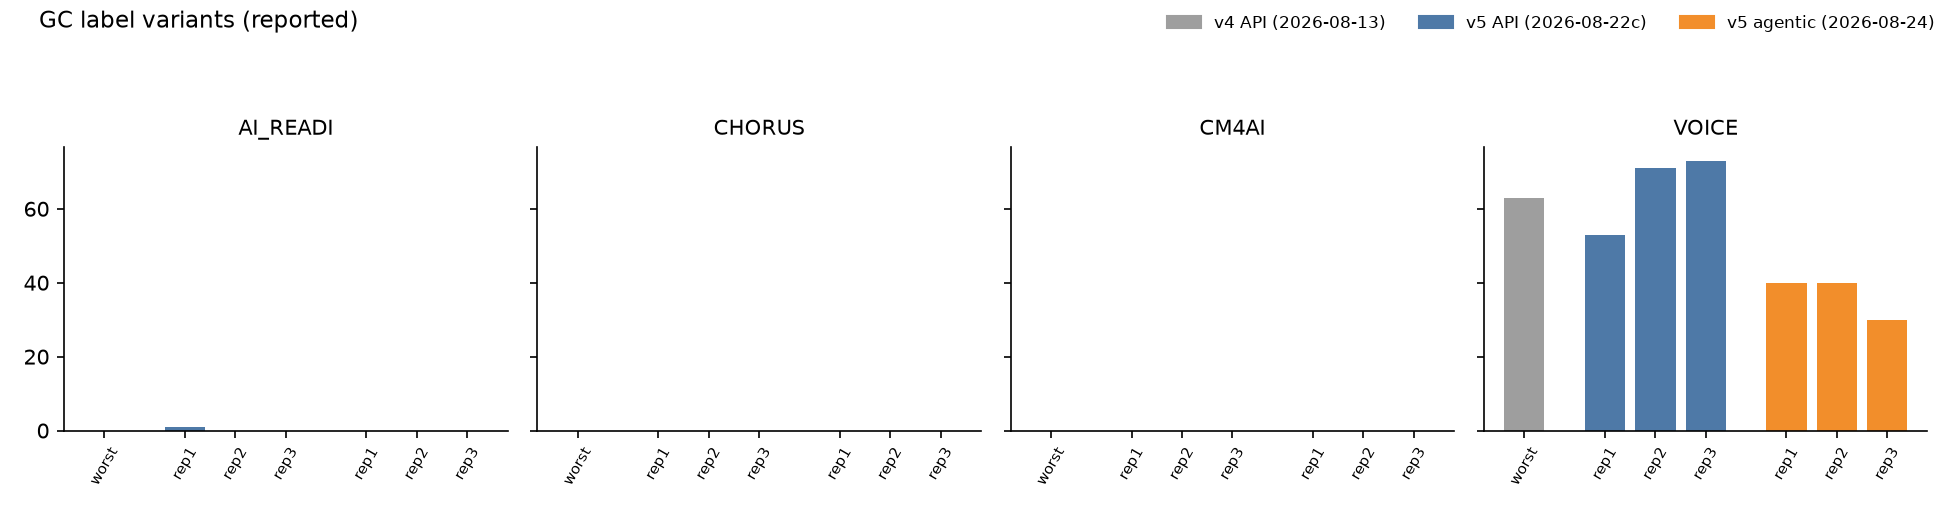
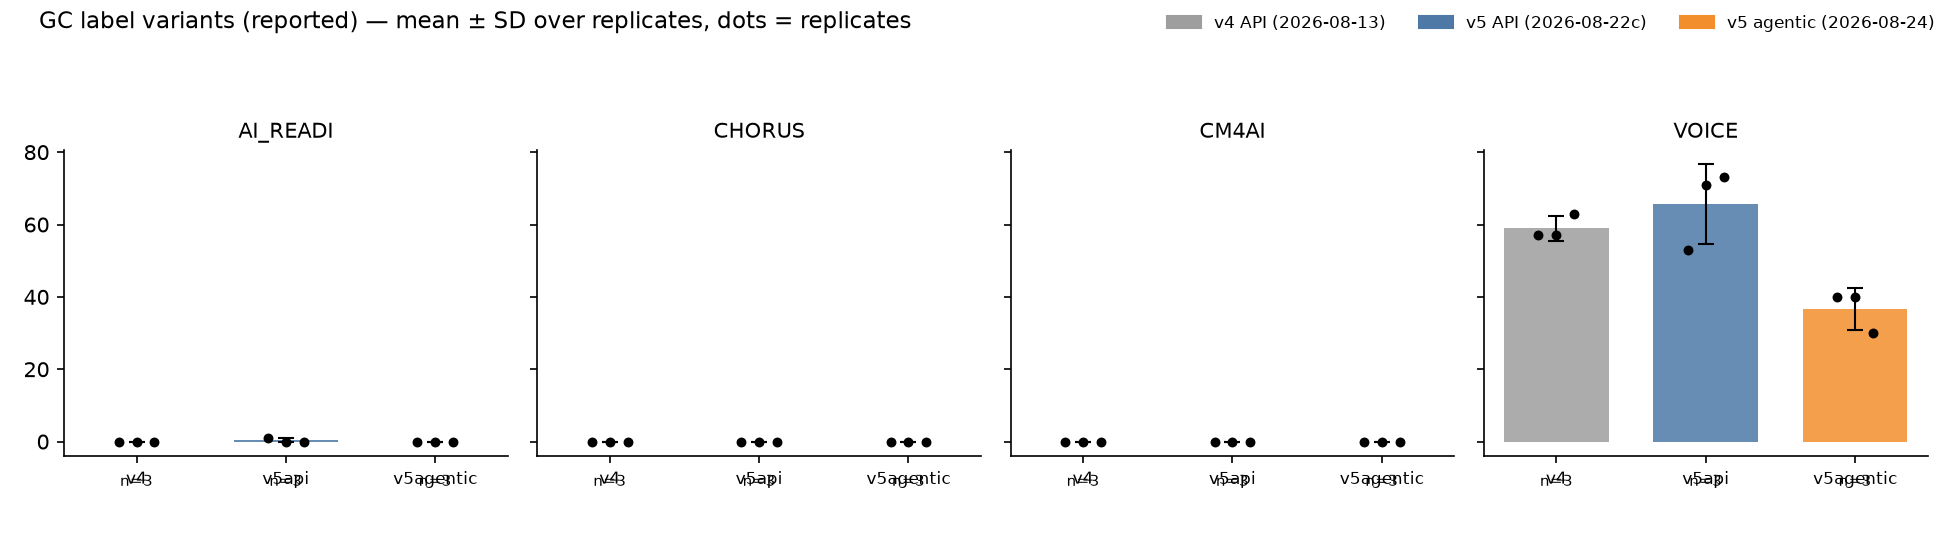
Cross-arm comparison: mean ± SD over replicates in the table and figures
Every arm has three replicates per project, so each deterministic cell is
now mean ± sample SD (ddof=1) with the replicate values in brackets; the
baseline arm keeps its per-project worst beside them, because that is the
value the canary gate holds runs against. Figures draw one bar per arm at
the replicate mean with an SD error bar, the replicates as dots, and n
under each bar. An SD over three replicates is labelled as a spread, not a
confidence interval.

Rubric scores get no SD: only each arm's canonical was scored (n = 1 per
arm and project), and the table and figure say so rather than invent one.
Scoring all replicates (24 more evaluations per rubric) is what an SD there
would take.

diff --git a/scripts/arm_comparison.py b/scripts/arm_comparison.py
@@ -192,6 +192,33 @@ def fmt(m: dict[str, Any], metric: str) -> str:
     return str(v)
 
 
+def stats(reps: list[dict[str, Any]], metric: str) -> tuple[float, float, int] | None:
+    """Mean and sample SD (ddof=1) over replicates; None when fewer than 1.
+    n is always reported beside the figure: three replicates is a small
+    sample, and an SD on n=3 is a spread, not a confidence interval."""
+    import statistics
+    vals = [r[metric] for r in reps if r.get(metric) is not None]
+    if not vals:
+        return None
+    mean = statistics.fmean(vals)
+    sd = statistics.stdev(vals) if len(vals) > 1 else 0.0
+    return mean, sd, len(vals)
+
+
+def cell(reps: list[dict[str, Any]], metric: str, role: str) -> str:
+    """mean ± SD with the replicates in brackets; the baseline arm adds its
+    per-project worst, which is what the canary gate holds runs against."""
+    st = stats(reps, metric)
+    if st is None:
+        return "–"
+    mean, sd, n = st
+    raw = ",".join(fmt(r, metric) for r in reps)
+    body = f"{mean:.1f} ± {sd:.1f} [{raw}]"
+    if role == "worst":
+        body += f" worst {worst(reps, metric)}"
+    return body
+
+
 def worst(reps: list[dict[str, Any]], metric: str) -> str:
     """Per-project collapse for the baseline column: the worst value where
     the metric has a direction, the max (labelled as such in the header) for
@@ -229,18 +256,20 @@ def write_markdown(data, scores) -> None:
                                    + (" (shown as per-project worst; max for reported-only metrics)" if role == "worst" else "")
                                    for _k, d, pfx, rt, role in ARMS), ""]
 
-    lines += ["## Deterministic metrics — three replicates per cell", "",
+    lines += ["## Deterministic metrics — mean ± SD over replicates", "",
               "| metric | project | " + " | ".join(d for _k, d, *_ in ARMS) + " |",
               "|---|---|" + "|".join("---" for _ in ARMS) + "|"]
     for mk, (disp, _src, _hiw, _cav) in METRICS.items():
         for p in PROJECTS:
             cells = []
             for key, _d, _pfx, _rt, role in ARMS:
-                reps = data[key][p]
-                cells.append(worst(reps, mk) if role == "worst"
-                             else ",".join(fmt(r, mk) for r in reps) or "–")
+                cells.append(cell(data[key][p], mk, role))
             lines.append(f"| {disp} | {p} | " + " | ".join(cells) + " |")
-    lines += ["", "ᵘ = unmeasured: the report-claims checker parsed zero claims (#684).", ""]
+    lines += ["", "Cells are mean ± sample SD over the replicates (n = 3 unless a run is "
+              "missing), with the replicate values in brackets; the baseline arm adds "
+              "its per-project worst, the value the canary gate holds runs against. "
+              "An SD over three replicates is a spread, not a confidence interval. "
+              "ᵘ = unmeasured: the report-claims checker parsed zero claims (#684).", ""]
 
     lines += ["## Per-metric caveats (attached, not footnoted elsewhere)", ""]
     for mk, (disp, src, _hiw, cav) in METRICS.items():
@@ -249,7 +278,7 @@ def write_markdown(data, scores) -> None:
     lines.append("")
 
     for rubric, rscores in scores.items():
-        lines += [f"## {rubric.capitalize()}-semantic scores (canonical / would-be canonical records only)", "",
+        lines += [f"## {rubric.capitalize()}-semantic scores (canonical / would-be canonical records only; n = 1 per arm and project, so no SD)", "",
                   "| project | " + " | ".join(d for _k, d, *_ in ARMS) + " |",
                   "|---|" + "|".join("---" for _ in ARMS) + "|"]
         for p in PROJECTS:
@@ -279,35 +308,32 @@ def write_figures(data, scores) -> None:
     OUT_FIG.mkdir(parents=True, exist_ok=True)
     colors = {"v4": "#9e9e9e", "v5api": "#4e79a7", "v5agentic": "#f28e2b"}
 
-    # One figure per metric: 4 project panels, bars per arm (worst) or per rep.
+    # One figure per metric: 4 project panels, one bar per arm = replicate mean,
+    # error bar = sample SD (n printed under the bar). Replicates are dots.
     for mk, (disp, _src, _hiw, cav) in METRICS.items():
-        fig, axes = plt.subplots(1, len(PROJECTS), figsize=(13, 3.4), sharey=True)
+        fig, axes = plt.subplots(1, len(PROJECTS), figsize=(13, 3.6), sharey=True)
         for ax, p in zip(axes, PROJECTS):
-            xs, hs, cs, labels = [], [], [], []
-            x = 0
-            for key, d, _pfx, _rt, role in ARMS:
+            for i, (key, d, _pfx, _rt, role) in enumerate(ARMS):
                 reps = data[key][p]
-                if role == "worst":
-                    vals = [r[mk] for r in reps if r.get(mk) is not None]
-                    if vals:
-                        xs.append(x); hs.append(max(vals)); cs.append(colors[key]); labels.append("worst")
-                        x += 1
-                else:
-                    for r in reps:
-                        if r.get(mk) is None:
-                            continue
-                        xs.append(x); hs.append(r[mk]); cs.append(colors[key])
-                        labels.append(r["label"].rsplit("_", 1)[-1] + ("ᵘ" if mk == "report" and r[mk] == 0 and not r.get("claims_checked") else ""))
-                        x += 1
-                x += 0.6
-            ax.bar(xs, hs, color=cs, width=0.8)
-            ax.set_xticks(xs); ax.set_xticklabels(labels, fontsize=7, rotation=60)
+                st = stats(reps, mk)
+                if st is None:
+                    continue
+                mean, sd, n = st
+                ax.bar(i, mean, color=colors[key], width=0.7, alpha=0.85)
+                ax.errorbar(i, mean, yerr=sd, fmt="none", ecolor="black", capsize=4, lw=1)
+                vals = [r[mk] for r in reps if r.get(mk) is not None]
+                ax.scatter([i + (j - 1) * 0.12 for j in range(len(vals))], vals,
+                           s=14, color="black", zorder=3)
+                ax.text(i, -0.06, f"n={n}", ha="center", va="top", fontsize=7,
+                        transform=ax.get_xaxis_transform())
+            ax.set_xticks(range(len(ARMS)))
+            ax.set_xticklabels([k for k, *_ in ARMS], fontsize=8)
             ax.set_title(p, fontsize=10)
             ax.spines[["top", "right"]].set_visible(False)
         handles = [plt.Rectangle((0, 0), 1, 1, color=colors[k]) for k, *_ in ARMS]
         fig.legend(handles, [d for _k, d, *_ in ARMS], loc="upper right", fontsize=8, ncol=3, frameon=False)
-        fig.suptitle(disp, x=0.02, ha="left", fontsize=11)
-        fig.tight_layout(rect=(0, 0, 1, 0.9))
+        fig.suptitle(f"{disp} — mean ± SD over replicates, dots = replicates", x=0.02, ha="left", fontsize=11)
+        fig.tight_layout(rect=(0, 0.04, 1, 0.9))
         out = OUT_FIG / f"arm_comparison_{mk}.png"
         fig.savefig(out, dpi=150); plt.close(fig)
         print(f"wrote {out.relative_to(ROOT)}")
@@ -348,7 +374,7 @@ def _rubric_figure(rubric, scores, colors) -> None:
     ax.set_ylabel(f"{rubric}-semantic points (axis: unadjusted max {RUBRIC_MAX[rubric]})")
     ax.spines[["top", "right"]].set_visible(False)
     ax.legend(frameon=False, fontsize=8, loc="upper center", bbox_to_anchor=(0.5, -0.12), ncol=len(arm_keys))
-    ax.set_title(f"{rubric.capitalize()}-semantic, canonical records (same evaluator model)"
+    ax.set_title(f"{rubric.capitalize()}-semantic, canonical records (same evaluator; n = 1 per bar, no SD)"
                  + (f" — no evaluations exist for: {', '.join(absent)}" if absent else ""),
                  fontsize=9, loc="left")
     fig.tight_layout()

diff --git a/notes/arm_comparison.md b/notes/arm_comparison.md
@@ -11,44 +11,44 @@ Generated by `scripts/arm_comparison.py` from the provenance records under `data
 
 Arms: **v4 API (2026-08-13)** — `2026-08-13_claude-opus-5-api-generic-v4_rep{1,2,3}`, Claude API via CBORG (shown as per-project worst; max for reported-only metrics); **v5 API (2026-08-22c)** — `2026-08-22c_claude-opus-5-api-generic-v5_rep{1,2,3}`, Claude API via CBORG; **v5 agentic (2026-08-24)** — `2026-08-24_claude-opus-5-claudecode-generic-v5_rep{1,2,3}`, Claude Code
 
-## Deterministic metrics — three replicates per cell
+## Deterministic metrics — mean ± SD over replicates
 
 | metric | project | v4 API (2026-08-13) | v5 API (2026-08-22c) | v5 agentic (2026-08-24) |
 |---|---|---|---|---|
-| ungrounded identifiers | AI_READI | 0 | 0,0,0 | 0,0,0 |
-| ungrounded identifiers | CHORUS | 0 | 0,0,0 | 0,0,0 |
-| ungrounded identifiers | CM4AI | 10 | 0,0,0 | 0,0,0 |
-| ungrounded identifiers | VOICE | 19 | 0,0,0 | 0,0,0 |
-| organisational fragments | AI_READI | 0 | 0,0,0 | 0,0,0 |
-| organisational fragments | CHORUS | 0 | 0,0,0 | 0,0,0 |
-| organisational fragments | CM4AI | 0 | 0,0,0 | 0,0,0 |
-| organisational fragments | VOICE | 7 | 0,0,0 | 0,0,0 |
-| undeclared prefixes | AI_READI | 6 | 0,0,0 | 0,0,0 |
-| undeclared prefixes | CHORUS | 228 | 0,0,0 | 0,0,0 |
-| undeclared prefixes | CM4AI | 86 | 0,0,0 | 0,0,0 |
-| undeclared prefixes | VOICE | 0 | 0,0,0 | 0,0,0 |
-| British spellings | AI_READI | 183 | 20,37,0 | 4,0,0 |
-| British spellings | CHORUS | 20 | 0,0,0 | 0,0,0 |
-| British spellings | CM4AI | 53 | 0,0,0 | 0,4,0 |
-| British spellings | VOICE | 59 | 2,0,6 | 3,4,0 |
-| pair errors | AI_READI | 10 | 2,18,6 | 0,0,0 |
-| pair errors | CHORUS | 6 | 1,0,2 | 0,0,0 |
-| pair errors | CM4AI | 9 | 4,5,9 | 0,0,0 |
-| pair errors | VOICE | 9 | 7,5,5 | 0,0,0 |
-| report findings | AI_READI | 2 | 0ᵘ,1,0ᵘ | 0ᵘ,0ᵘ,0ᵘ |
-| report findings | CHORUS | 0ᵘ | 0ᵘ,0ᵘ,0ᵘ | 0ᵘ,0ᵘ,0 |
-| report findings | CM4AI | 4 | 2,0ᵘ,0ᵘ | 0ᵘ,0ᵘ,0ᵘ |
-| report findings | VOICE | 2 | 0ᵘ,1,1 | 0ᵘ,0ᵘ,0ᵘ |
-| minted fragments (reported) | AI_READI | 17 | 0,13,14 | 16,3,12 |
-| minted fragments (reported) | CHORUS | 0 | 0,0,0 | 0,0,0 |
-| minted fragments (reported) | CM4AI | 12 | 15,10,16 | 42,55,51 |
-| minted fragments (reported) | VOICE | 14 | 0,0,8 | 3,14,130 |
-| GC label variants (reported) | AI_READI | 0 | 1,0,0 | 0,0,0 |
-| GC label variants (reported) | CHORUS | 0 | 0,0,0 | 0,0,0 |
-| GC label variants (reported) | CM4AI | 0 | 0,0,0 | 0,0,0 |
-| GC label variants (reported) | VOICE | 63 | 53,71,73 | 40,40,30 |
+| ungrounded identifiers | AI_READI | 0.0 ± 0.0 [0,0,0] worst 0 | 0.0 ± 0.0 [0,0,0] | 0.0 ± 0.0 [0,0,0] |
+| ungrounded identifiers | CHORUS | 0.0 ± 0.0 [0,0,0] worst 0 | 0.0 ± 0.0 [0,0,0] | 0.0 ± 0.0 [0,0,0] |
+| ungrounded identifiers | CM4AI | 3.3 ± 5.8 [0,0,10] worst 10 | 0.0 ± 0.0 [0,0,0] | 0.0 ± 0.0 [0,0,0] |
+| ungrounded identifiers | VOICE | 6.3 ± 11.0 [19,0,0] worst 19 | 0.0 ± 0.0 [0,0,0] | 0.0 ± 0.0 [0,0,0] |
+| organisational fragments | AI_READI | 0.0 ± 0.0 [0,0,0] worst 0 | 0.0 ± 0.0 [0,0,0] | 0.0 ± 0.0 [0,0,0] |
+| organisational fragments | CHORUS | 0.0 ± 0.0 [0,0,0] worst 0 | 0.0 ± 0.0 [0,0,0] | 0.0 ± 0.0 [0,0,0] |
+| organisational fragments | CM4AI | 0.0 ± 0.0 [0,0,0] worst 0 | 0.0 ± 0.0 [0,0,0] | 0.0 ± 0.0 [0,0,0] |
+| organisational fragments | VOICE | 2.3 ± 4.0 [7,0,0] worst 7 | 0.0 ± 0.0 [0,0,0] | 0.0 ± 0.0 [0,0,0] |
+| undeclared prefixes | AI_READI | 2.0 ± 3.5 [0,6,0] worst 6 | 0.0 ± 0.0 [0,0,0] | 0.0 ± 0.0 [0,0,0] |
+| undeclared prefixes | CHORUS | 76.0 ± 131.6 [228,0,0] worst 228 | 0.0 ± 0.0 [0,0,0] | 0.0 ± 0.0 [0,0,0] |
+| undeclared prefixes | CM4AI | 42.3 ± 43.0 [0,86,41] worst 86 | 0.0 ± 0.0 [0,0,0] | 0.0 ± 0.0 [0,0,0] |
+| undeclared prefixes | VOICE | 0.0 ± 0.0 [0,0,0] worst 0 | 0.0 ± 0.0 [0,0,0] | 0.0 ± 0.0 [0,0,0] |
+| British spellings | AI_READI | 136.7 ± 41.5 [183,103,124] worst 183 | 19.0 ± 18.5 [20,37,0] | 1.3 ± 2.3 [4,0,0] |
+| British spellings | CHORUS | 16.7 ± 5.8 [20,20,10] worst 20 | 0.0 ± 0.0 [0,0,0] | 0.0 ± 0.0 [0,0,0] |
+| British spellings | CM4AI | 19.7 ± 28.9 [53,4,2] worst 53 | 0.0 ± 0.0 [0,0,0] | 1.3 ± 2.3 [0,4,0] |
+| British spellings | VOICE | 47.7 ± 14.0 [32,59,52] worst 59 | 2.7 ± 3.1 [2,0,6] | 2.3 ± 2.1 [3,4,0] |
+| pair errors | AI_READI | 8.0 ± 2.0 [10,8,6] worst 10 | 8.7 ± 8.3 [2,18,6] | 0.0 ± 0.0 [0,0,0] |
+| pair errors | CHORUS | 3.0 ± 3.0 [6,0,3] worst 6 | 1.0 ± 1.0 [1,0,2] | 0.0 ± 0.0 [0,0,0] |
+| pair errors | CM4AI | 6.0 ± 3.0 [6,9,3] worst 9 | 6.0 ± 2.6 [4,5,9] | 0.0 ± 0.0 [0,0,0] |
+| pair errors | VOICE | 6.3 ± 2.5 [9,4,6] worst 9 | 5.7 ± 1.2 [7,5,5] | 0.0 ± 0.0 [0,0,0] |
+| report findings | AI_READI | 1.7 ± 0.6 [2,1,2] worst 2 | 0.3 ± 0.6 [0ᵘ,1,0ᵘ] | 0.0 ± 0.0 [0ᵘ,0ᵘ,0ᵘ] |
+| report findings | CHORUS | 0.0 ± 0.0 [0ᵘ,0ᵘ,0ᵘ] worst 0ᵘ | 0.0 ± 0.0 [0ᵘ,0ᵘ,0ᵘ] | 0.0 ± 0.0 [0ᵘ,0ᵘ,0] |
+| report findings | CM4AI | 2.7 ± 1.5 [3,1,4] worst 4 | 0.7 ± 1.2 [2,0ᵘ,0ᵘ] | 0.0 ± 0.0 [0ᵘ,0ᵘ,0ᵘ] |
+| report findings | VOICE | 2.0 ± 0.0 [2,2,2] worst 2 | 0.7 ± 0.6 [0ᵘ,1,1] | 0.0 ± 0.0 [0ᵘ,0ᵘ,0ᵘ] |
+| minted fragments (reported) | AI_READI | 14.7 ± 2.1 [17,14,13] worst 17 | 9.0 ± 7.8 [0,13,14] | 10.3 ± 6.7 [16,3,12] |
+| minted fragments (reported) | CHORUS | 0.0 ± 0.0 [0,0,0] worst 0 | 0.0 ± 0.0 [0,0,0] | 0.0 ± 0.0 [0,0,0] |
+| minted fragments (reported) | CM4AI | 4.0 ± 6.9 [12,0,0] worst 12 | 13.7 ± 3.2 [15,10,16] | 49.3 ± 6.7 [42,55,51] |
+| minted fragments (reported) | VOICE | 4.7 ± 8.1 [0,0,14] worst 14 | 2.7 ± 4.6 [0,0,8] | 49.0 ± 70.4 [3,14,130] |
+| GC label variants (reported) | AI_READI | 0.0 ± 0.0 [0,0,0] worst 0 | 0.3 ± 0.6 [1,0,0] | 0.0 ± 0.0 [0,0,0] |
+| GC label variants (reported) | CHORUS | 0.0 ± 0.0 [0,0,0] worst 0 | 0.0 ± 0.0 [0,0,0] | 0.0 ± 0.0 [0,0,0] |
+| GC label variants (reported) | CM4AI | 0.0 ± 0.0 [0,0,0] worst 0 | 0.0 ± 0.0 [0,0,0] | 0.0 ± 0.0 [0,0,0] |
+| GC label variants (reported) | VOICE | 59.0 ± 3.5 [57,57,63] worst 63 | 65.7 ± 11.0 [53,71,73] | 36.7 ± 5.8 [40,40,30] |
 
-ᵘ = unmeasured: the report-claims checker parsed zero claims (#684).
+Cells are mean ± sample SD over the replicates (n = 3 unless a run is missing), with the replicate values in brackets; the baseline arm adds its per-project worst, the value the canary gate holds runs against. An SD over three replicates is a spread, not a confidence interval. ᵘ = unmeasured: the report-claims checker parsed zero claims (#684).
 
 ## Per-metric caveats (attached, not footnoted elsewhere)
 
@@ -61,7 +61,7 @@ Arms: **v4 API (2026-08-13)** — `2026-08-13_claude-opus-5-api-generic-v4_rep{1
 - **minted fragments (reported)** — record block. reported-only; every fragment hangs off an attested base wherever ungrounded is 0. Appetite varies 3→130 within one project (#685).
 - **GC label variants (reported)** — live recompute, current instrument. reported-only; counted against the manifest naming declaration decided 2026-08-22, so anachronistic for the v4 arm and same-day for 22c. For VOICE the count is the dataset's own PhysioNet title, lawful under the proper-noun carve-out (#674).
 
-## Rubric10-semantic scores (canonical / would-be canonical records only)
+## Rubric10-semantic scores (canonical / would-be canonical records only; n = 1 per arm and project, so no SD)
 
 | project | v4 API (2026-08-13) | v5 API (2026-08-22c) | v5 agentic (2026-08-24) |
 |---|---|---|---|
@@ -70,7 +70,7 @@ Arms: **v4 API (2026-08-13)** — `2026-08-13_claude-opus-5-api-generic-v4_rep{1
 | CM4AI | – | 47/50 (94.0%, rep1) | 47/50 (94.0%, rep2) |
 | VOICE | – | 50/50 (100.0%, rep2) | 49/50 (98.0%, rep1) |
 
-## Rubric20-semantic scores (canonical / would-be canonical records only)
+## Rubric20-semantic scores (canonical / would-be canonical records only; n = 1 per arm and project, so no SD)
 
 | project | v4 API (2026-08-13) | v5 API (2026-08-22c) | v5 agentic (2026-08-24) |
 |---|---|---|---|
